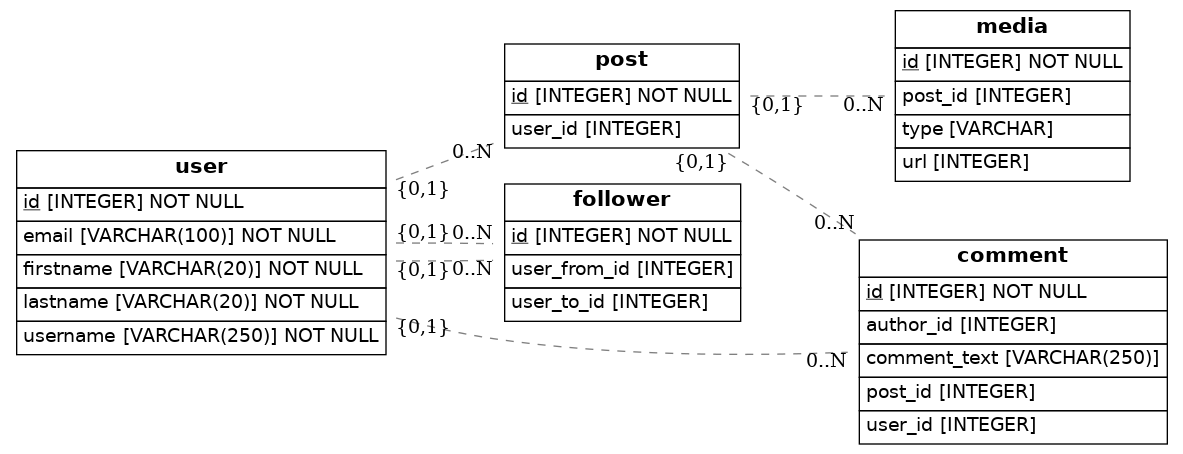
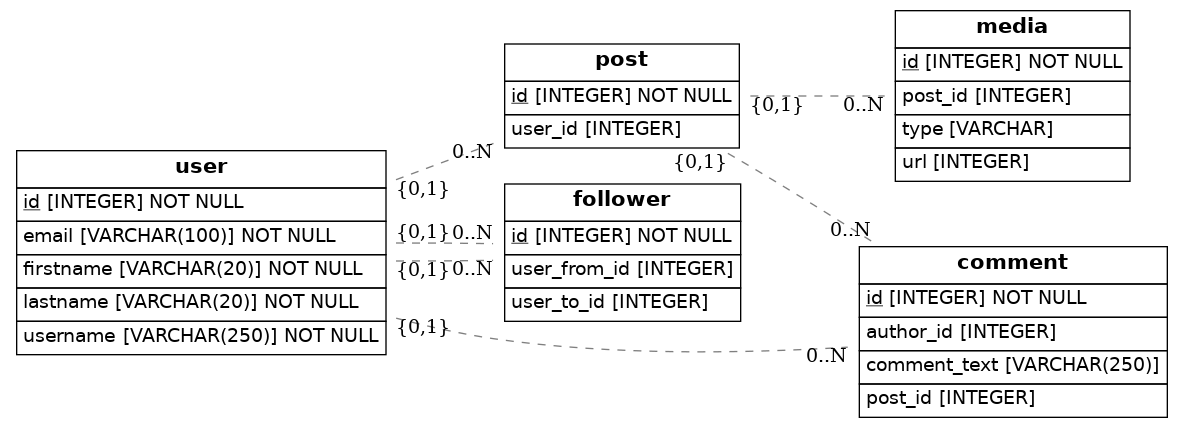
relaciones entre id corregidas

Changed region(s): [[0.0, 0.0, 0.9738, 0.8505], [0.6695, 0.4556, 1.0, 1.0]]

diff --git a/src/models.py b/src/models.py
@@ -24,7 +24,7 @@ class Post(Base):
     # Notice that each column is also a normal Python instance attribute.
     id = Column(Integer, primary_key=True)
     user_id = Column(Integer, ForeignKey('user.id'))
-    user = relationship(User)
+
 
 class Follower(Base):
     __tablename__ = 'follower'
@@ -33,7 +33,7 @@ class Follower(Base):
     id = Column(Integer, primary_key=True)
     user_from_id = Column(Integer, ForeignKey('user.id'))
     user_to_id = Column(Integer, ForeignKey('user.id'))
-    # user_to = relationship(User)
+   
 
 
 class Comment(Base):
@@ -42,11 +42,9 @@ class Comment(Base):
     # Notice that each column is also a normal Python instance attribute.
     id = Column(Integer, primary_key=True)
     comment_text = Column(String(250))
-    author_id = Column(Integer)
-    user_id = Column(Integer, ForeignKey('user.id'))
-    user = relationship(User)
+    author_id = Column(Integer, ForeignKey('user.id'))
     post_id = Column(Integer, ForeignKey('post.id'))
-    post = relationship(Post)
+    
     
     
 class Media(Base):
@@ -57,7 +55,6 @@ class Media(Base):
     type = Column(Enum)
     url = Column(Integer)
     post_id = Column(Integer, ForeignKey('post.id'))
-    post = relationship(Post)
     
 
     def to_dict(self):
